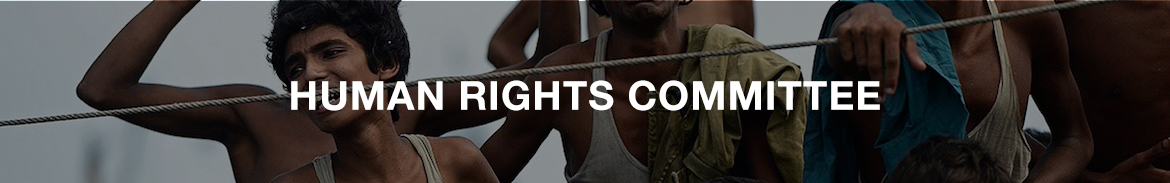
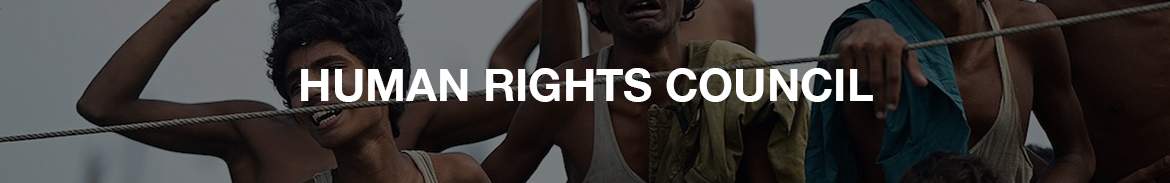
Updated commit

diff --git a/src/Committees.html b/src/Committees.html
@@ -111,7 +111,7 @@
 </head>
 <body>
 <img src="GA1.jpg">
-<p> </p>
+<p> The first general assembly, also known as the disarmament and international security committee deals with disarmament, global challenges and threats to peace that affects the international community and seeks out solutions to the challenges in the international security regime. It includes all nations that are United Nations member states.</p>
 <p class="topic">
   Practice Debate Topic: Reviewing the Arms Trade Treaty in the context of weapon transfers in ongoing conflict regions<br>
   <b>Conference Topic: Reviewing regional and international diplomatic efforts towards mitigating armed conflict and rapprochement between Sudan and South Sudan</b>

diff --git a/src/EXCO.html b/src/EXCO.html
@@ -166,7 +166,7 @@
   <br>
 </p>
 <p class="positions">
-  <b>Human Right Committee</b><br><br>
+  <b>Human Right Council</b><br><br>
   <i>President</i> <br>
   Inuja Aluwihare
   <br> <br>
